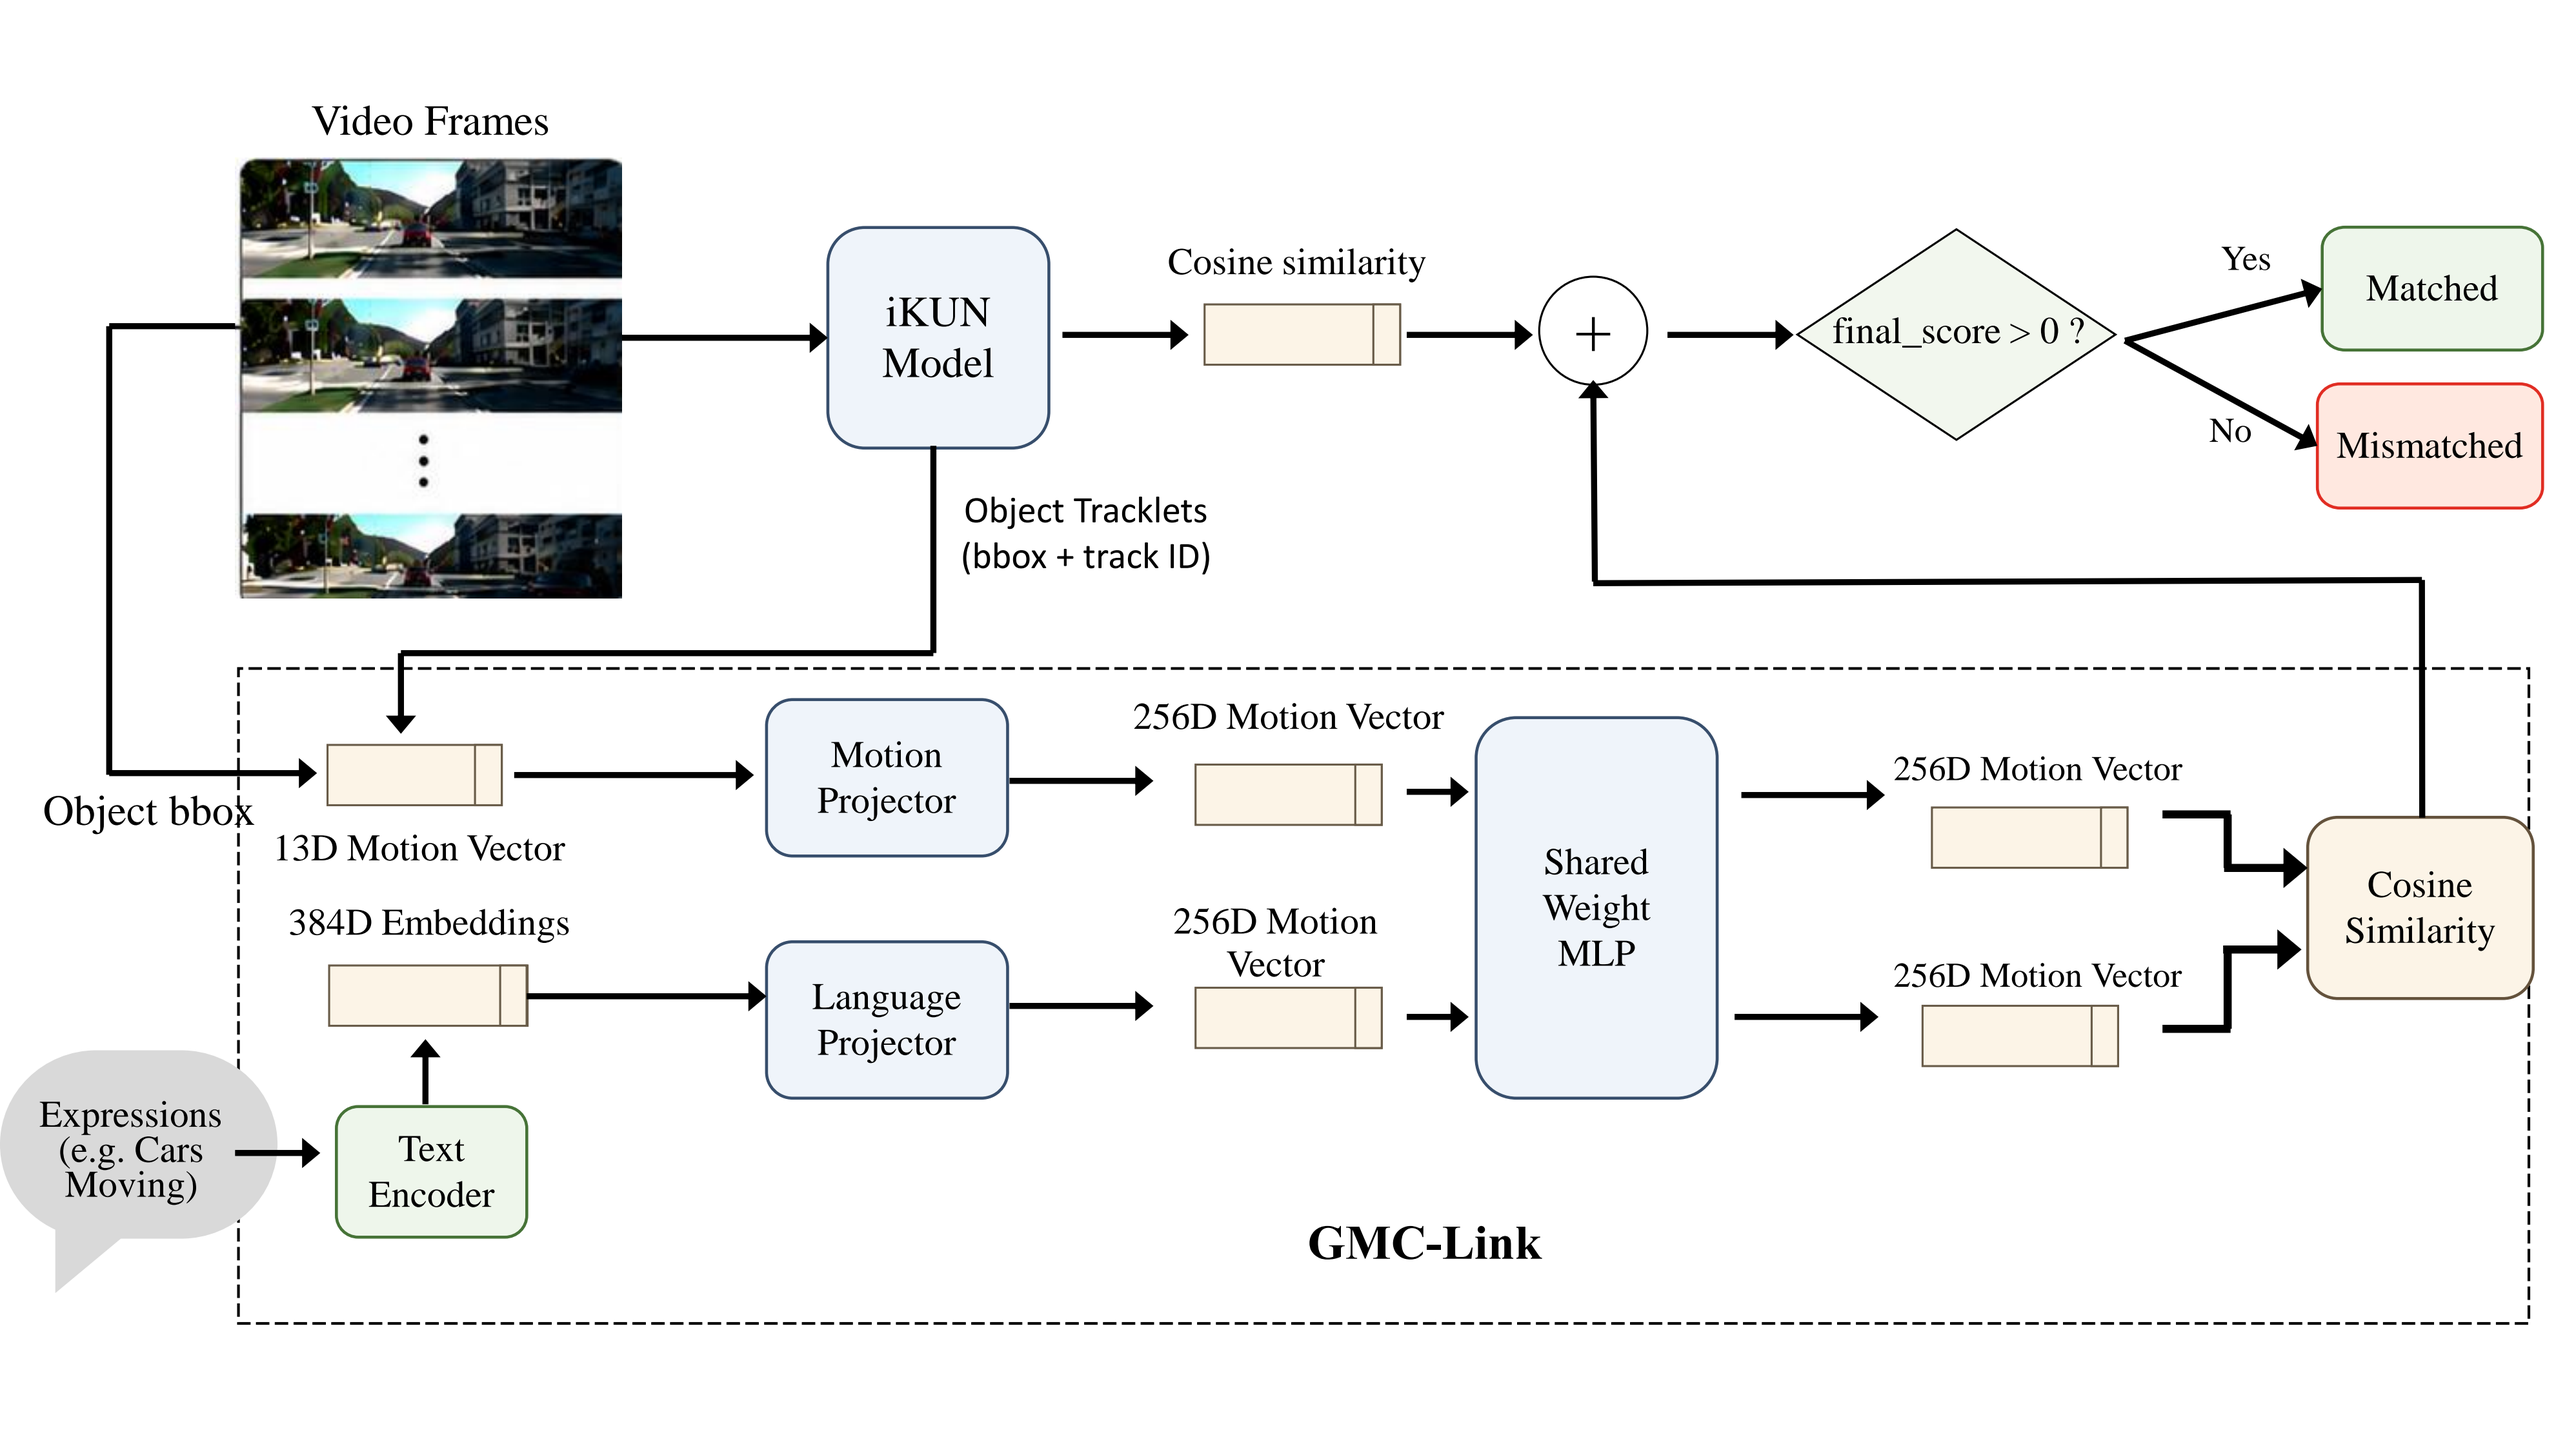
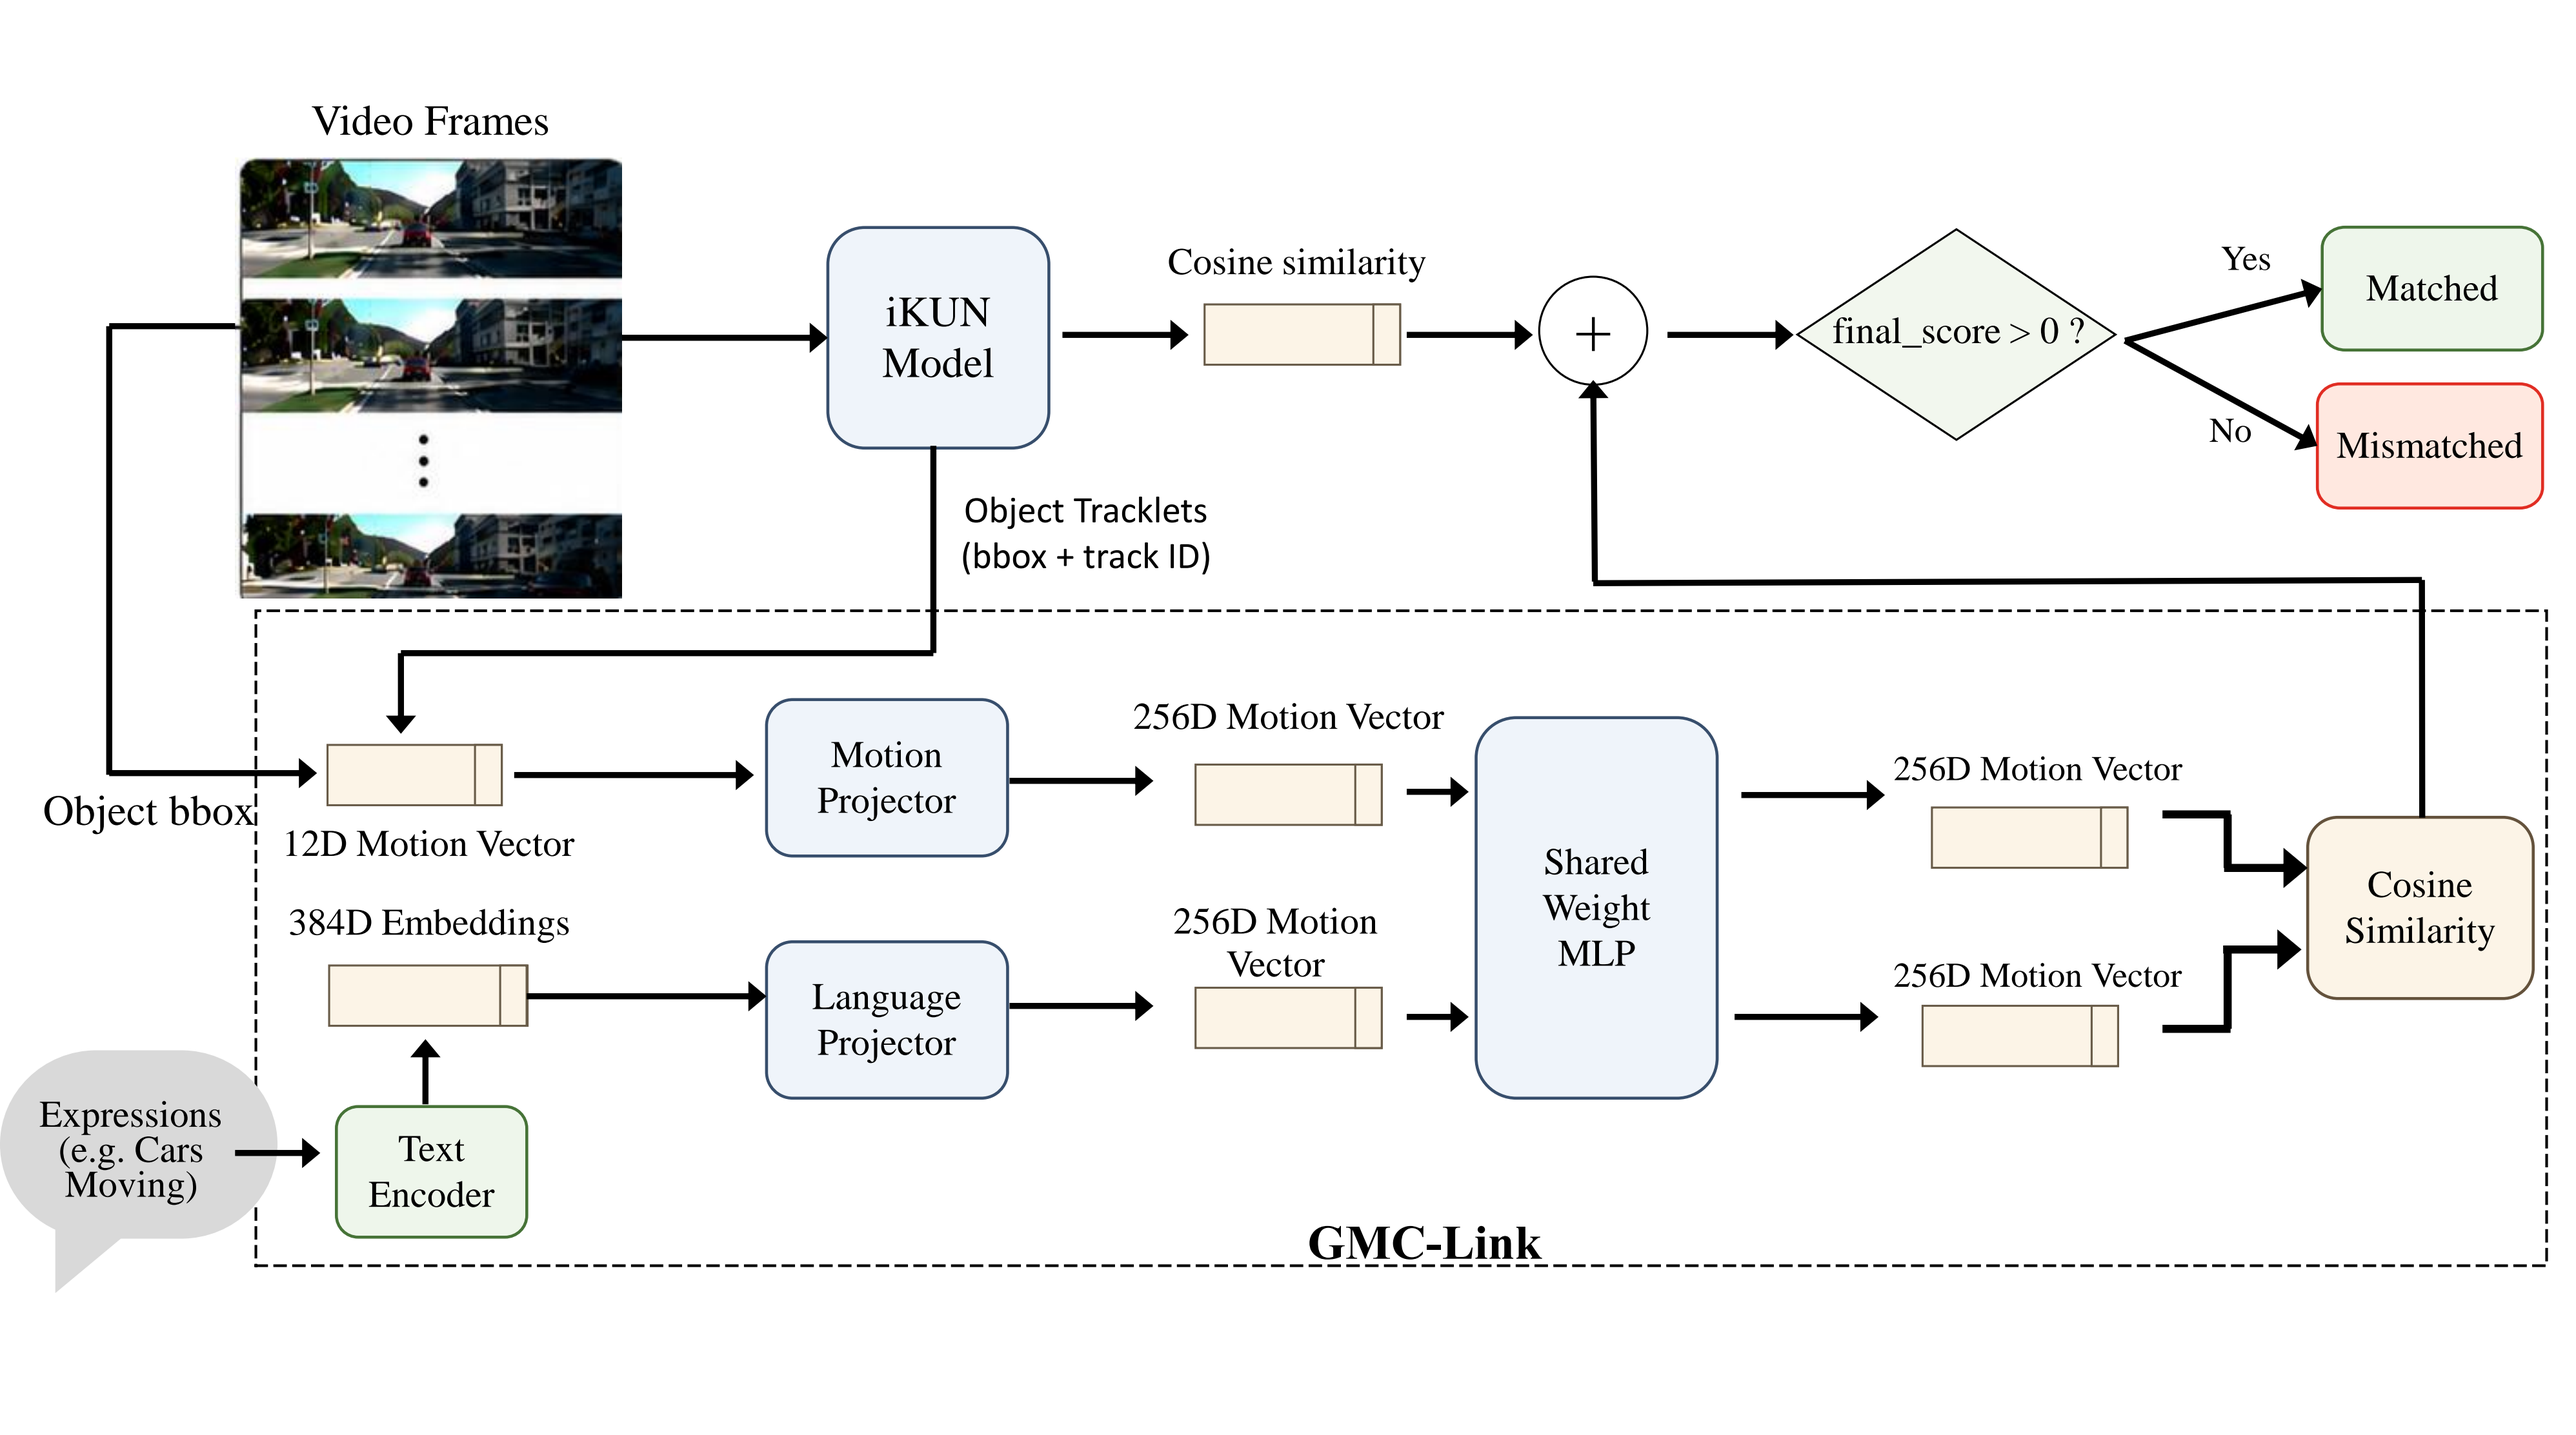
update GMC architecture and correct introduction values

Changed region(s): [[0.0932, 0.5582, 0.2174, 0.6202]]

diff --git a/2027_ICASSP/gmc.tex b/2027_ICASSP/gmc.tex
@@ -80,7 +80,7 @@ This work connects ego-motion compensation with motion-language modeling for RMO
 \begin{itemize}
   \item We propose a plug-in that aligns ego-compensated residual velocity with the referring expression, thereby improving the host RMOT method without modifying or retraining it.
 %  \item We show that among the module's design choices, camera motion compensation is the key factor: it is the only component whose removal significantly degrades both moving-class ($p{=}0.006$) and static-class ($p{<}10^{-4}$) HOTA.
-  \item Based on iKUN, the proposed plug-in raises moving-class HOTA by $4.42$. The performance gains can be observed in various settings.
+  \item Based on iKUN, the proposed plug-in raises moving-class HOTA by $4.69$. The performance gains can be observed in various settings.
 \end{itemize}
 
 %---------------------
